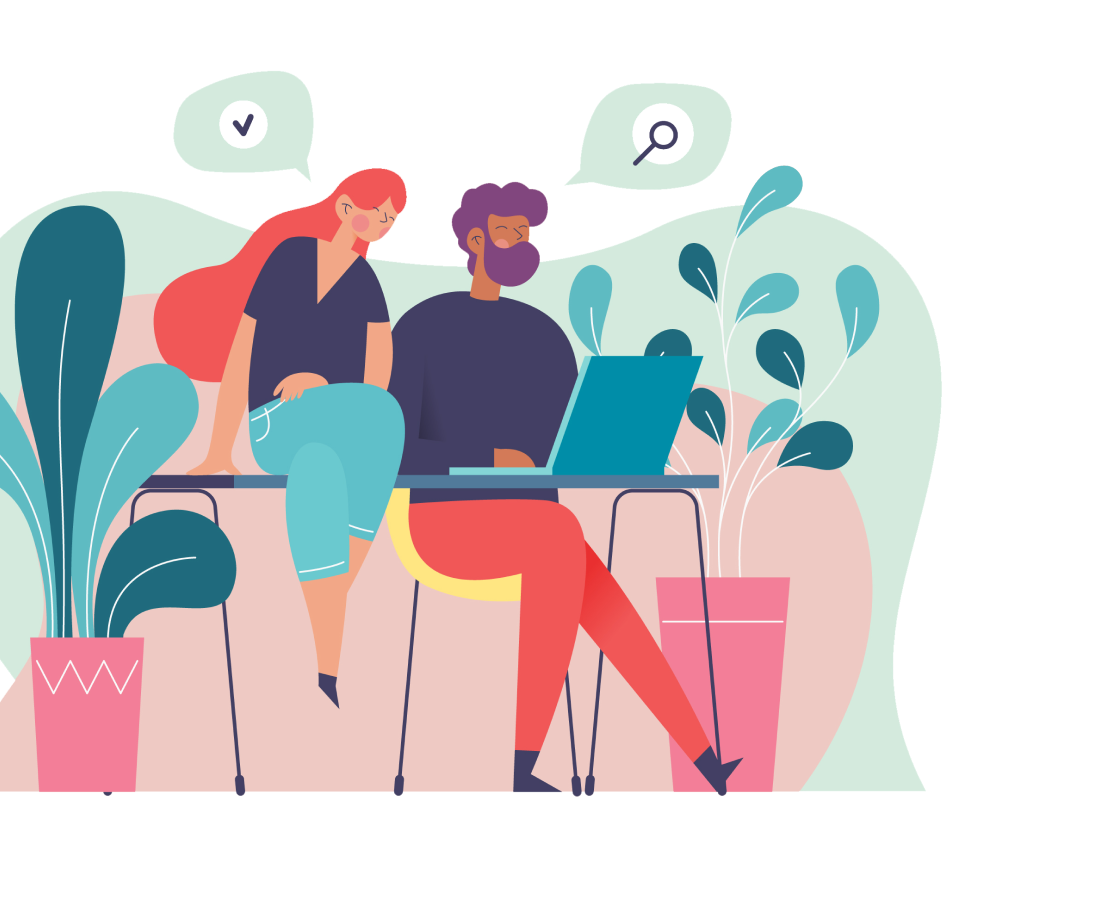
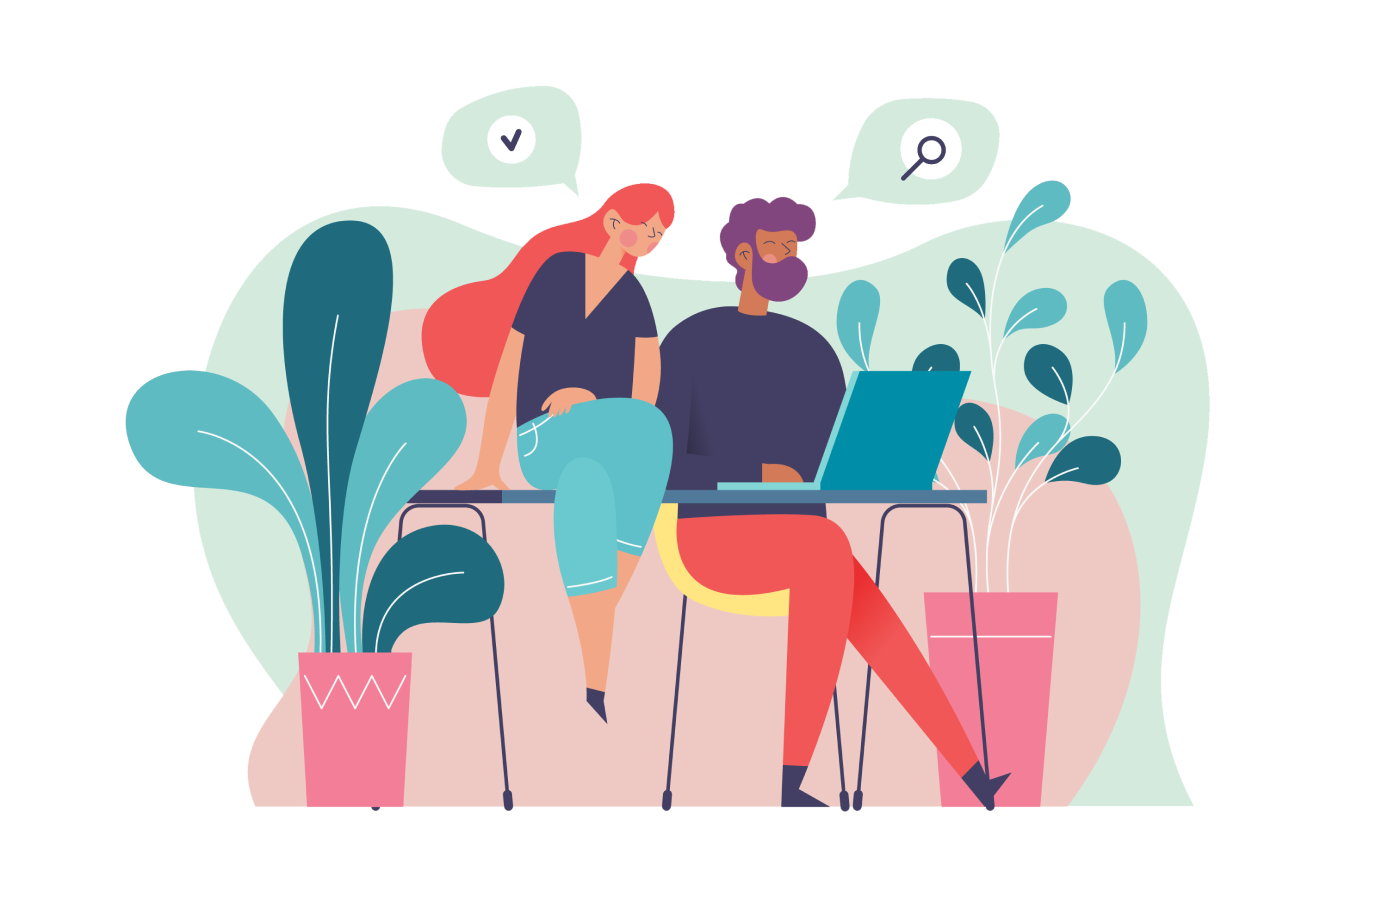
bg2

diff --git a/LandingPage.css b/LandingPage.css
@@ -16,7 +16,6 @@ body::-webkit-scrollbar-track {
 /* Header styles */
 .landing-header {
     background-color: #08989F;
-    padding: 15px 0;
 }
 
 .header-container {
@@ -176,6 +175,9 @@ body::-webkit-scrollbar-track {
 
 /* Upcycle description styles */
 .upcycle-description {
+    width: 69.53%;
+    height: 4.167%;
+    margin-left: 15.57%;
     font-family: 'Poppins', sans-serif;
     font-size: 35px;
     font-weight: 400;
@@ -208,16 +210,16 @@ body::-webkit-scrollbar-track {
 /* 2nd page */
 .c1 {
     margin-top: 500px;
-    margin-left: 1210px;
-    width: 719px; 
-    height: 719px;
+    width: 37.45%; 
+    height: 37.45%;
+    margin-left: 67.76%;
 }
 
 .bg2 {
     margin-top: -500px;
-    margin-right: 500px;
-    width: 1388px; 
-    height: 924px;
+    margin-left: -13.96%;
+    width: 72.29%; 
+    height: 48.13%;
 }
 
 .text-container-2 {
